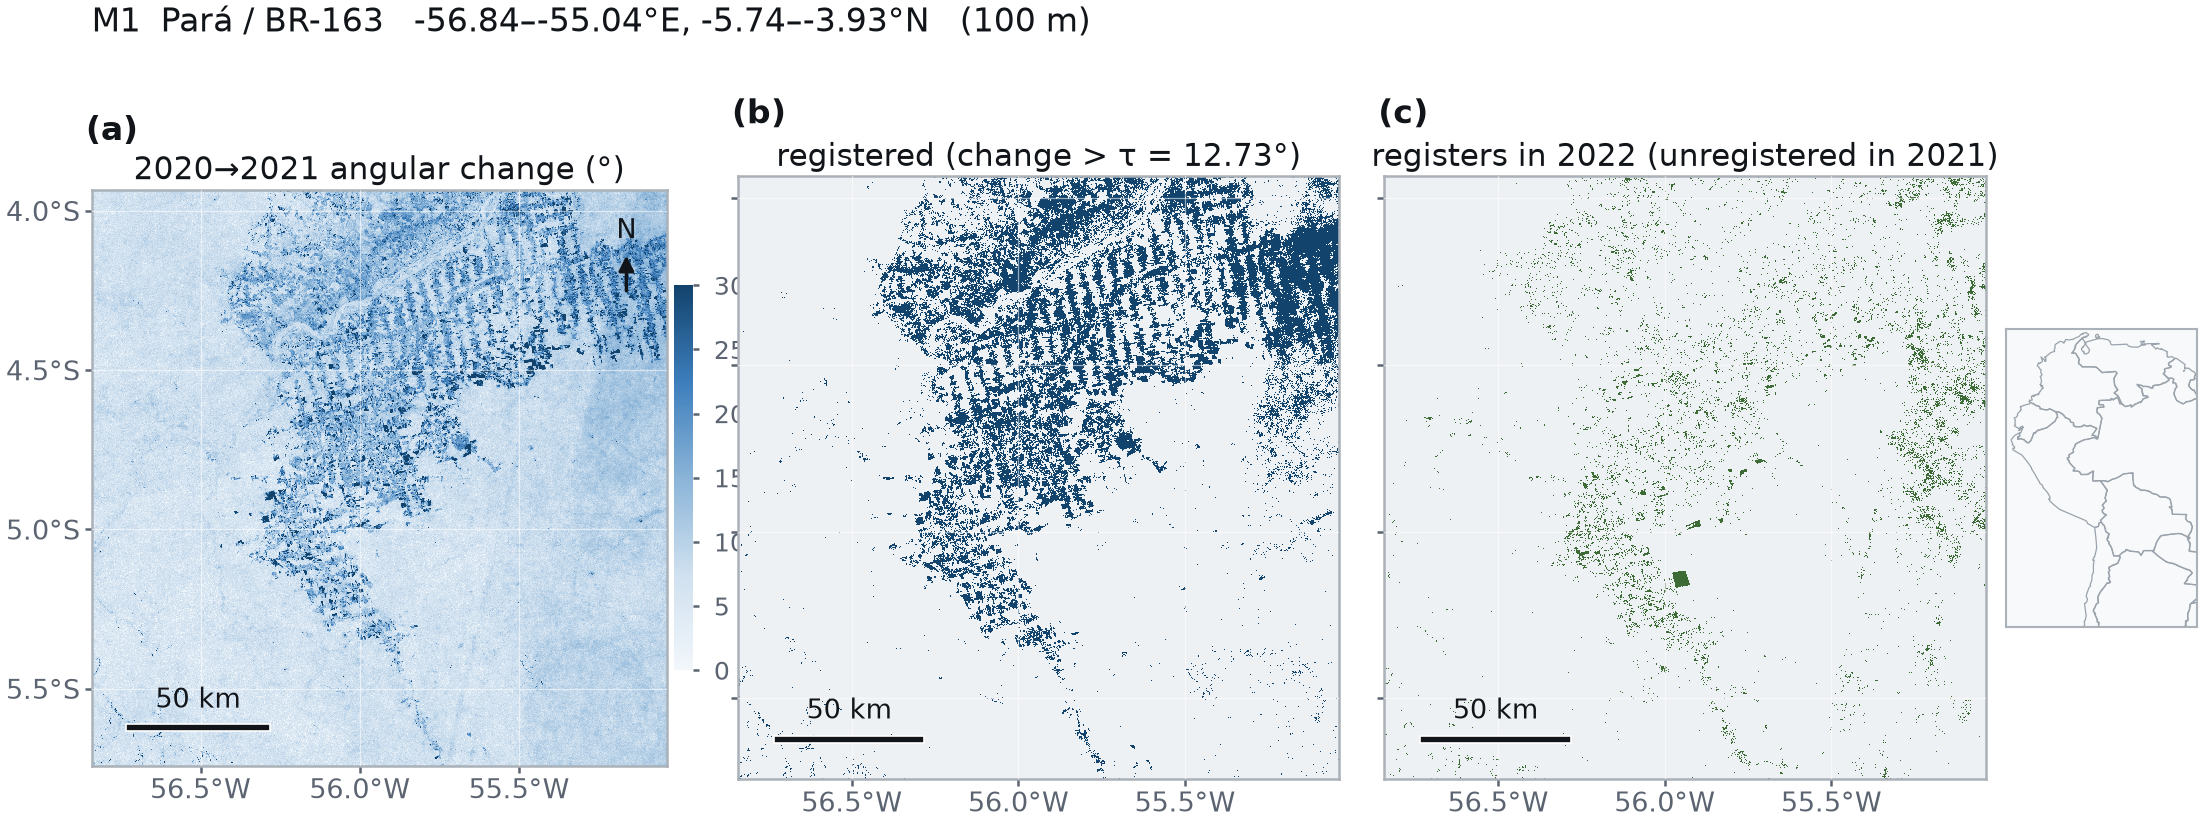
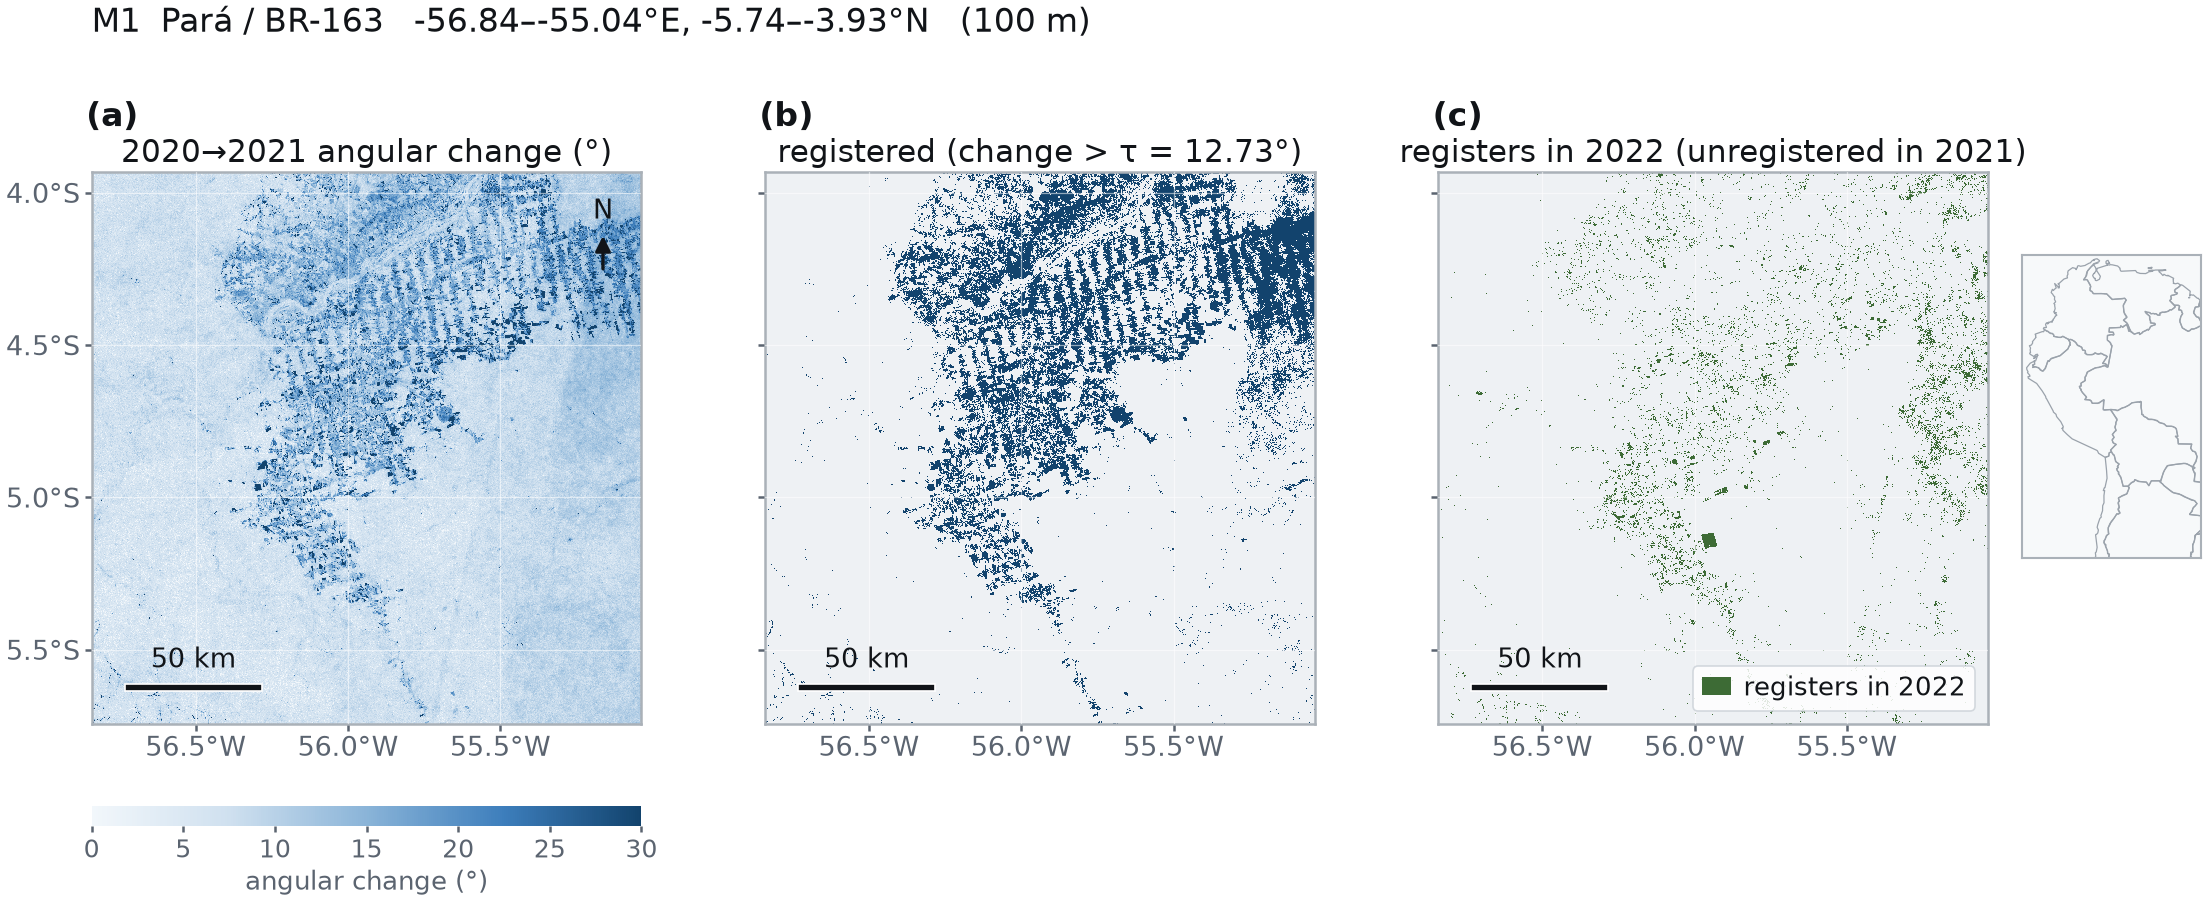
TB01-P8 item 7: M1/M2 colourbar moved below panel (a), legend added to panel (c)
The angular-change colourbar was created with ax=, which stole width from panel (a) and
landed on panel (b)'s tick labels. It is now a horizontal bar hung under panel (a), placed
after a first draw so it inherits the settled axes geometry - the panels keep their
geographic aspect, so their boxes shrink to fit and a fixed position would not align. The
locator inset is positioned the same way, from panel (c)'s box.

Panel (c) gains a legend entry naming the green pixels as 'registers in 2022'.

diff --git a/aef_explore/paper/code/fig_maps.py b/aef_explore/paper/code/fig_maps.py
@@ -10,7 +10,7 @@ import rasterio
 from rasterio.merge import merge
 import matplotlib.pyplot as plt
 from matplotlib.colors import LinearSegmentedColormap, ListedColormap
-from matplotlib.patches import Rectangle
+from matplotlib.patches import Rectangle, Patch
 from figstyle import W2, C, INK, INK2, SEQ_BLUE, save, panel_tag
 
 PROD = "data/products"
@@ -127,13 +127,13 @@ def plate(tag, cfg):
     dfr, _ = mosaic(f"{key}_defer2022_100m_r*.tif")
     ang = np.where(ang <= -32000, np.nan, ang / 100.0)
     aspect = (ext[3] - ext[2]) / (ext[1] - ext[0])
-    fig = plt.figure(figsize=(W2, W2 * aspect / 3 * 1.28))
+    fig = plt.figure(figsize=(W2, W2 * aspect / 3 * 1.30))
     segs = outlines()
     panels = [("a", ang, "2020→2021 angular change (°)"),
               ("b", reg, f"registered (change > τ = {cfg['tau']:.2f}°)"),
               ("c", dfr, "registers in 2022 (unregistered in 2021)")]
     for i, (t, arr, title) in enumerate(panels):
-        ax = fig.add_axes([0.045 + i * 0.288, 0.10, 0.268, 0.80])
+        ax = fig.add_axes([0.045 + i * 0.300, 0.165, 0.245, 0.760])
         if t == "a":
             im = ax.imshow(arr, extent=ext, cmap=ANG, vmin=0, vmax=30,
                            interpolation="nearest", zorder=1)
@@ -150,12 +150,29 @@ def plate(tag, cfg):
         ax.set_title(title, fontsize=7.5, color=INK, pad=2.5)
         panel_tag(ax, f"({t})", dx=-0.01, dy=1.13)
         if t == "a":
-            cb = fig.colorbar(im, ax=ax, fraction=0.032, pad=0.012)
-            cb.ax.tick_params(labelsize=6, length=1.5)
-            cb.outline.set_visible(False)
+            first = (ax, im)
+        if t == "c":
+            ax.legend(handles=[Patch(facecolor=C["congo"], edgecolor="none",
+                                     label="registers in 2022")],
+                      frameon=True, facecolor="white", edgecolor="#cdd3d9", framealpha=0.85,
+                      loc="lower right", fontsize=6.2, handlelength=1.1,
+                      borderpad=0.35, handletextpad=0.5).get_frame().set_linewidth(0.4)
         ax.set_xlim(ext[0], ext[1]); ax.set_ylim(ext[2], ext[3])
-    locator(fig, [0.898, 0.345, 0.085, 0.31], cfg["inset"], ext, segs)
-    fig.text(0.045, 0.965, f"{tag}  {cfg['label']}   {ext[0]:.2f}–{ext[1]:.2f}°E, "
+        if t == "c":
+            axes_c = ax
+    # the panels keep their geographic aspect, so matplotlib shrinks each axes box to fit;
+    # read the settled geometry back before hanging the colourbar and the locator off it
+    fig.canvas.draw()
+    pos_a = first[0].get_position()
+    pos_c = axes_c.get_position()
+    cax = fig.add_axes([pos_a.x0, max(pos_a.y0 - 0.105, 0.02), pos_a.width, 0.020])
+    cb = fig.colorbar(first[1], cax=cax, orientation="horizontal")
+    cb.set_label("angular change (°)", fontsize=6.3, color=INK2, labelpad=1.5)
+    cb.ax.tick_params(labelsize=6, length=1.5, pad=1.5)
+    cb.outline.set_visible(False)
+    locator(fig, [0.905, pos_c.y0 + pos_c.height * 0.30, 0.080,
+                  pos_c.height * 0.55], cfg["inset"], ext, segs)
+    fig.text(0.045, 0.972, f"{tag}  {cfg['label']}   {ext[0]:.2f}–{ext[1]:.2f}°E, "
              f"{ext[2]:.2f}–{ext[3]:.2f}°N   (100 m)", fontsize=8, color=INK)
     save(fig, f"{tag}_{key}.png")
 
